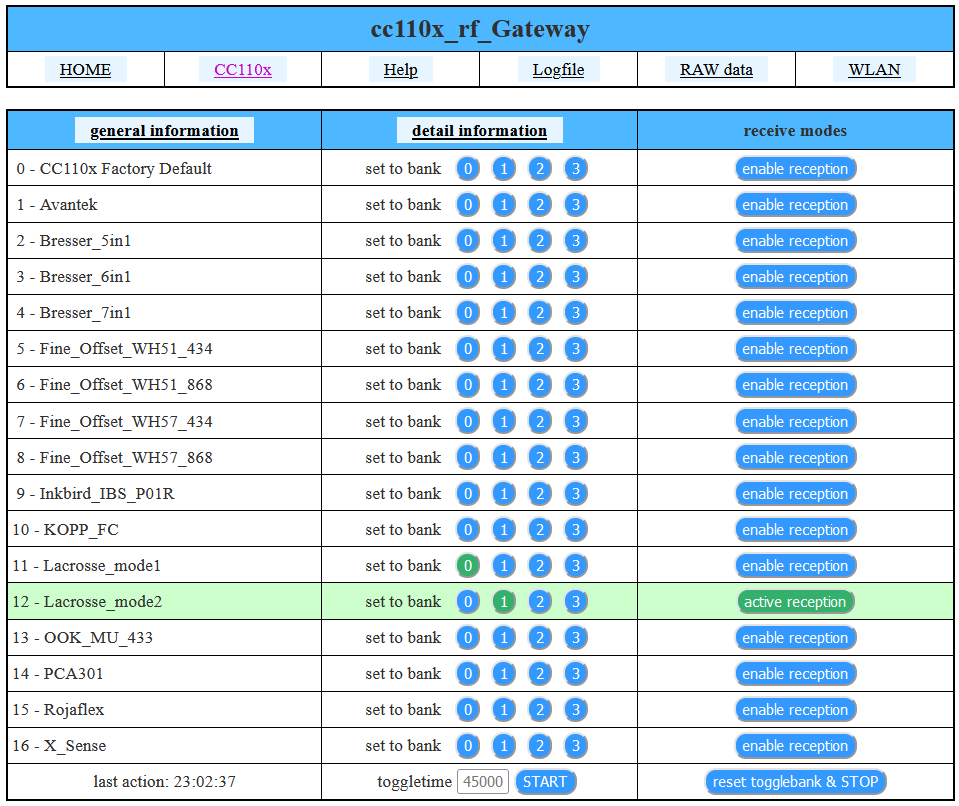
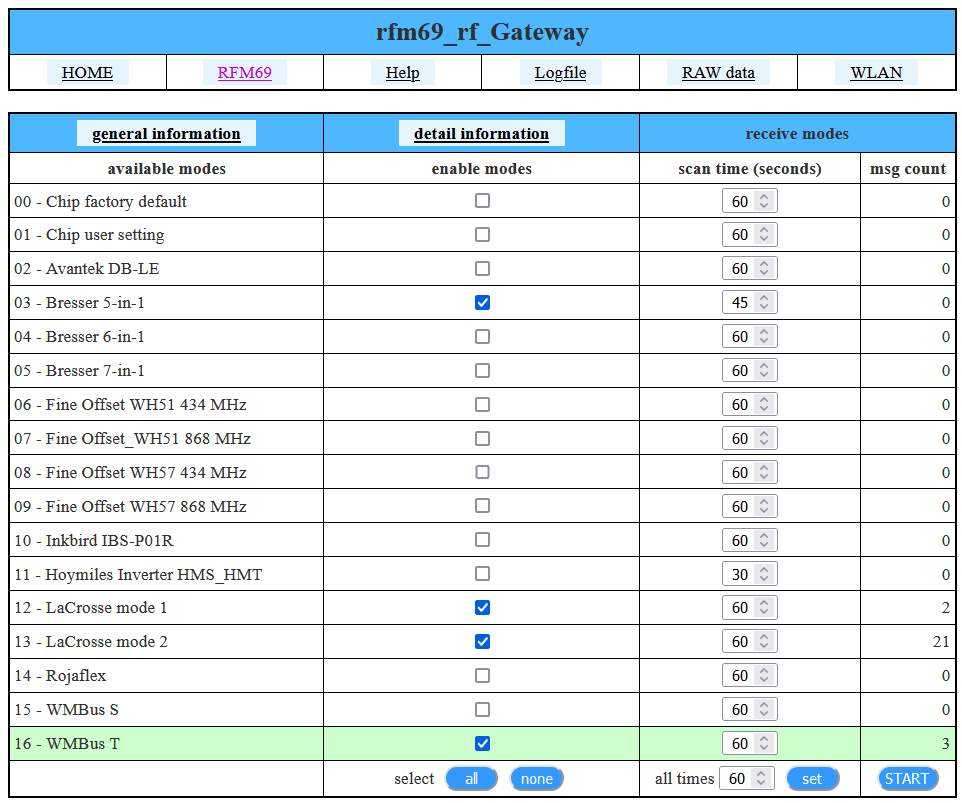
update pictures

diff --git a/README.md b/README.md
@@ -1,26 +1,30 @@
-# cc1101_rf_Gateway uC v2.0.0pre with CC110x/ SX1231 support
+# rf_Gateway uC v2.1.5pre with CC110x/ SX1231 support
 
 ### Getting started
 
 
-System to receive digital signals and provide them to other systems for demodulation. A CC1101 is used as receiver. The cabling is analogue and compatible with the SIGNALduino. You can toggle up to 4 reception modes with a minimum time of 30 seconds. It can be operated via the WEB interface or the uC command (telnet). Standard operation is possible via FHEM. <br>Current reception modes are (values can be compiled in or compiled out yourself) :
-  - CC110x Factory Default (standard values according to data sheet)
-  - Avantek
-  - Bresser_5in1
-  - Bresser_6in1
-  - Bresser_7in1
-  - Fine_Offset_WH51_434
-  - Fine_Offset_WH51_868
-  - Fine_Offset_WH57_434
-  - Fine_Offset_WH57_868
-  - Inkbird_IBS_P01R
-  - KOPP_FC
-  - Lacrosse_mode1
-  - Lacrosse_mode2
-  - OOK - Modulation on 433MHz
+System to receive digital signals and provide them to other systems for demodulation. A CC110x or SX1231 is used as receiver. The cabling is analogue and compatible with the SIGNALduino. You can toggle up to 4 reception modes with a minimum time of 30 seconds. It can be operated via the WEB interface or the uC command (telnet). Standard operation is possible via FHEM. <br>Current reception modes are (values can be compiled in or compiled out yourself) :
+  - Chip factory default (standard values according to data sheet)
+  - Chip user setting
+  - ASK/OOK 433 MHz
+  - Avantek DB-LE
+  - Bresser 5-in-1
+  - Bresser 6-in-1
+  - Bresser 7-in-1
+  - Fine Offset WH51 434 MHz
+  - Fine Offset_WH51 868 MHz
+  - Fine Offset WH57 434 MHz
+  - Fine Offset WH57 868 MHz
+  - Inkbird IBS-P01R
+  - Hoymiles Inverter HMS_HMT
+  - KOPP FC
+  - LaCrosse mode 1
+  - LaCrosse mode 2
   - PCA301
   - Rojaflex
-  - X_Sense
+  - WMBus S
+  - WMBus T
+  - X-Sense XS01-WR
   - ... some development´s
 
 
@@ -37,7 +41,7 @@ required libraries: [digitalWriteFast](https://www.arduino.cc/reference/en/libra
 3. define one SIGNALduino device <br> ( define \<name\> SIGNALduino \<device\> )
 4. check the reading 'state' and if communication is successful it says 'opened'
 
-### Using cc1101_rf_Gateway in FHEM (with a SX1231 chip)
+### Using rfm69_rf_Gateway in FHEM (with a SX1231 chip)
 
 1. ... text is being adapted
 2. ... a bit patience
